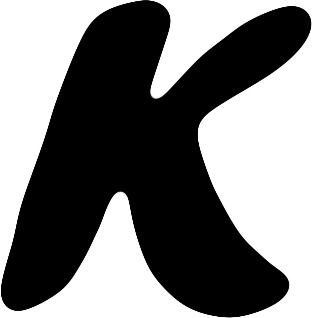
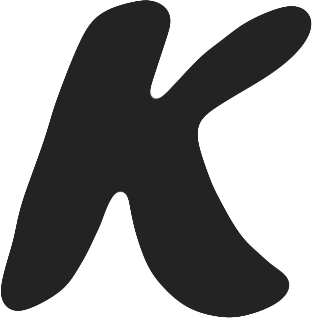
Slight color adjustments

diff --git a/resources/js/index.js b/resources/js/index.js
@@ -91,7 +91,7 @@ $(document).ready(function(){
         var offset = 20;
         var opacity = "" + 100/(Math.abs(top - $('carousel').height()));
         var text = $('.item').find('.carousel-caption');
-        console.log("top: " + top + " opacity " + opacity);
+        //console.log("top: " + top + " opacity " + opacity);
 
         var textPosition = (Math.abs(top)/6).toFixed(0);
         //text.css('transform','translateY(' + textPosition + "px)");
@@ -103,15 +103,16 @@ $(document).ready(function(){
         
 
         if (top >= offset) {
-            $('.masthead').addClass('scroll-masthead');
-            $('#K').addClass("hidden");
-            $('#K_blk').removeClass("hidden");
-            $('.menu-button').addClass("scrolling");
+
+          if (!$('.masthead').hasClass('scroll-masthead')) {
+            activateScrollMasthead();
+          }
+            
         } else {
-            $('.masthead').removeClass('scroll-masthead');
-            $('#K').removeClass("hidden");
-            $('#K_blk').addClass("hidden");
-            $('.menu-button').removeClass("scrolling");
+
+          if ($('.masthead').hasClass('scroll-masthead')) {
+            deactivateScrollMasthead();
+          }
         }
       }    
 

diff --git a/resources/css/default.css b/resources/css/default.css
@@ -93,7 +93,7 @@ ul {
 .masthead {
     position: fixed;
     z-index: 100;
-    top: 0;
+    top: 0px;
     padding-bottom: 15px;
     padding-top: 15px;
     border-bottom: 1px solid;
@@ -156,18 +156,20 @@ ul {
 .scroll-masthead {
   background-color: rgba(256,256,256,1);
   /*border-bottom-color: rgba(0,0,0,0.2);*/
-  transition: 0.3s ease-out;
+
+  backface-visibility: hidden;
+  transition: 0.3s ease-out; 
   padding-top: 3px;
   padding-bottom: 3px;
 
   -webkit-box-shadow: 0px -1px 12px -6px rgba(61,61,61,1);
   -moz-box-shadow: 0px -1px 12px -6px rgba(61,61,61,1);
-  box-shadow: 0px -1px 12px -6px rgba(61,61,61,1);
+  box-shadow: 0px -1px 12px -6px rgba(61,61,61,1); 
 }
 
 .scroll-masthead  .masthead-brand {
   transition: 0.3s ease-out;
-  color: rgba(0,0,0,1);
+  color: rgba(32 ,32 ,32 ,1);
   font-size: 30px;
 }
 
